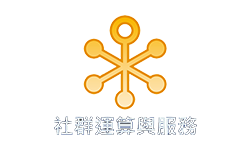
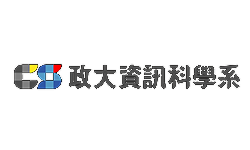
Update# update site @ 2013-09-23 16:48 GMT+8

Changed region(s): [[0.28, 0.08, 0.98, 0.7467], [0.196, 0.7733, 0.812, 0.9067], [0.056, 0.4267, 0.252, 0.6133]]

diff --git a/stylesheets/style.css b/stylesheets/style.css
@@ -1,1 +1,1 @@
-@import url("http://fonts.googleapis.com/css?family=Open+Sans");/*! normalize.css v2.1.3 | MIT License | git.io/normalize */article,aside,details,figcaption,figure,footer,header,hgroup,main,nav,section,summary{display:block}audio,canvas,video{display:inline-block}audio:not([controls]){display:none;height:0}[hidden],template{display:none}html{font-family:sans-serif;-ms-text-size-adjust:100%;-webkit-text-size-adjust:100%}body{margin:0}a{background:transparent}a:focus{outline:thin dotted}a:active,a:hover{outline:0}h1{font-size:2em;margin:0.67em 0}abbr[title]{border-bottom:1px dotted}b,strong{font-weight:bold}dfn{font-style:italic}hr{-moz-box-sizing:content-box;box-sizing:content-box;height:0}mark{background:#ff0;color:#000}code,kbd,pre,samp{font-family:monospace, serif;font-size:1em}pre{white-space:pre-wrap}q{quotes:"\201C" "\201D" "\2018" "\2019"}small{font-size:80%}sub,sup{font-size:75%;line-height:0;position:relative;vertical-align:baseline}sup{top:-0.5em}sub{bottom:-0.25em}img{border:0}svg:not(:root){overflow:hidden}figure{margin:0}fieldset{border:1px solid #c0c0c0;margin:0 2px;padding:0.35em 0.625em 0.75em}legend{border:0;padding:0}button,input,select,textarea{font-family:inherit;font-size:100%;margin:0}button,input{line-height:normal}button,select{text-transform:none}button,html input[type="button"],input[type="reset"],input[type="submit"]{-webkit-appearance:button;cursor:pointer}button[disabled],html input[disabled]{cursor:default}input[type="checkbox"],input[type="radio"]{box-sizing:border-box;padding:0}input[type="search"]{-webkit-appearance:textfield;-moz-box-sizing:content-box;-webkit-box-sizing:content-box;box-sizing:content-box}input[type="search"]::-webkit-search-cancel-button,input[type="search"]::-webkit-search-decoration{-webkit-appearance:none}button::-moz-focus-inner,input::-moz-focus-inner{border:0;padding:0}textarea{overflow:auto;vertical-align:top}table{border-collapse:collapse;border-spacing:0}* html{font-size:87.5%}html{font-size:14px;line-height:1.5em}body{background:#1a1a1a;color:#fff;font-family:"微軟正黑體","Microsoft JhengHei","STHeiti", "SimSun", "Helvetica Neue", "Helvetica", "Arial", sans-serif}hr{width:100%;border:none;border-top:1px solid #5a5a5a}.container{*zoom:1;max-width:19em;_width:19em;padding-left:1em;padding-right:1em;margin-left:auto;margin-right:auto}.container:after{content:"";display:table;clear:both}@media (min-width: 39.375em){.container{max-width:39em;padding-left:1em;padding-right:1em;margin-left:auto;margin-right:auto}.container:after{content:"";display:table;clear:both}}@media (min-width: 65.625em){.container{max-width:59em;padding-left:1em;padding-right:1em;margin-left:auto;margin-right:auto}.container:after{content:"";display:table;clear:both}}.page{height:0;overflow:hidden;filter:progid:DXImageTransform.Microsoft.Alpha(Opacity=0);opacity:0}.page.active{height:auto;filter:progid:DXImageTransform.Microsoft.Alpha(Opacity=100);opacity:1;-webkit-transition:0.5s ease-in;-moz-transition:0.5s ease-in;-o-transition:0.5s ease-in;transition:0.5s ease-in}.column-full{width:100%;float:left;margin-right:5.26316%;display:inline}@media (min-width: 39.375em){.column-full{width:100%;float:left;margin-right:2.5641%}}@media (min-width: 65.625em){.column-full{width:100%;float:left;margin-right:1.69492%}}.column-left{width:100%;float:left;margin-right:5.26316%;display:inline}@media (min-width: 39.375em){.column-left{width:48.71795%;float:left;margin-right:2.5641%}}@media (min-width: 65.625em){.column-left{width:49.15254%;float:left;margin-right:1.69492%}}.column-right{width:100%;float:left;margin-right:5.26316%;display:inline}@media (min-width: 39.375em){.column-right{width:48.71795%;float:right;margin-right:0}}@media (min-width: 65.625em){.column-right{width:49.15254%;float:right;margin-right:0}}.text-centered{text-align:center}.comming{text-align:center;font-family:"Open Sans", sans-serif}.comming h2{font-size:1.71429em;line-height:1.75em;font-weight:normal}.hide{display:none}.button{display:inline-block;border:2px solid #fff;color:#fff;padding:1em;margin-top:1.5em;padding-top:0.375em;padding-bottom:0.375em;margin-bottom:1.5em;text-decoration:none}.button:hover{border-color:#f4dc2e;background-color:#f4dc2e;color:#1a1a1a;-webkit-transition:0.5s ease-out;-moz-transition:0.5s ease-out;-o-transition:0.5s ease-out;transition:0.5s ease-out}.button.large{font-size:1.28571em;line-height:2.33333em}.media{position:relative;width:100%;padding-top:56.25%;overflow:hidden}.youtube iframe{position:absolute;top:0;left:0;width:100%;height:100%}#header{overflow:hidden;*zoom:1;width:100%;-webkit-transition:0.3s ease-in-out;-moz-transition:0.3s ease-in-out;-o-transition:0.3s ease-in-out;transition:0.3s ease-in-out}#header.home{margin-top:3.5em}@media (min-width: 65.625em){#header{position:absolute;z-index:100}#header.home{top:50%;margin-top:-3.5em;width:100%}}#logo a{display:block;width:244px;height:96px;margin:0 auto;background:url('../images/logo.png?1379858646') no-repeat;text-indent:-119988px;overflow:hidden;text-align:left}@media (min-width: 65.625em){#logo{float:right;width:35%}#logo a{margin:0;margin-left:1em}}#main-menu{width:100%;margin-top:3em;overflow:hidden;*zoom:1;background:#f4dc2e}#main-menu a{display:block;padding:1em;margin-top:0em;padding-top:0.75em;padding-bottom:0.75em;margin-bottom:0em;color:#000;text-decoration:none;font-family:"Open Sans", sans-serif}#main-menu ul{padding-left:0;margin-top:0em;padding-top:0em;padding-bottom:0em;margin-bottom:0em;font-size:1.28571em;line-height:2.33333em}#main-menu li{text-transform:uppercase;text-align:center;list-style:none}#main-menu li:hover{background:#faf0a7;-webkit-transition:0.5s ease-in;-moz-transition:0.5s ease-in;-o-transition:0.5s ease-in;transition:0.5s ease-in}@media (min-width: 65.625em){#main-menu{float:left;width:65%}#main-menu a{padding-left:0.5em;padding-right:0.5em}#main-menu ul{float:right;padding-right:1em}#main-menu ul.left{float:left}#main-menu li{float:left}}#site-menu{max-height:0;overflow:hidden;-webkit-transition:1s ease-in-out;-moz-transition:1s ease-in-out;-o-transition:1s ease-in-out;transition:1s ease-in-out}@media (min-width: 39.375em){#site-menu{max-height:999px;text-align:center}#site-menu li{display:inline-block}}#apply-now{position:relative;background:#fff}#apply-now:after{position:absolute;top:0;left:100%;display:block;width:0;height:0;content:" ";border:1.85em solid transparent;border-left:2em solid #fff}#apply-now:hover:after{border-left:2em solid #faf0a7;-webkit-transition:0.5s ease-in;-moz-transition:0.5s ease-in;-o-transition:0.5s ease-in;transition:0.5s ease-in}@media (min-width: 39.375em){#apply-now{float:clear}}#openmenu{position:absolute;top:-100%;left:-100%}#openmenu ~ label{display:block;font-family:"Open Sans";text-transform:uppercase;text-align:center;color:#1a1a1a;margin-top:1.5em;padding-top:0em;padding-bottom:0em;margin-bottom:1.5em}#openmenu:checked ~ label{font-weight:bold}#openmenu:checked ~ #site-menu{max-height:999px}@media (min-width: 39.375em){#openmenu{display:none}#openmenu ~ label{display:none}}@media (min-width: 65.625em){#openmenu{display:none}#openmenu ~ label{display:none}}#content{padding-top:3em;padding-bottom:4em}@media (min-width: 65.625em){#content{padding-top:10em}}#about p{font-size:1.28571em;line-height:1.75em}#about dd{margin:0}#about .time,#about .location{font-size:1.71429em;line-height:1.75em}#about h2{margin-top:0.375em;padding-top:0.375em;padding-bottom:0.375em;margin-bottom:0.375em;background:#f4dc2e;color:#1a1a1a;font-weight:normal;text-align:center}#host .hosts{max-height:150px;margin-top:0.75em;padding-top:0.375em;padding-bottom:0.375em;margin-bottom:0em;text-align:center;vertical-align:middle;width:100%;float:left;margin-right:5.26316%;display:inline;margin-right:-100%}#host .hosts:nth-child(1n+1){margin-left:0%;clear:left}@media (min-width: 39.375em){#host .hosts{width:48.71795%;float:left;margin-right:2.5641%;margin-right:-100%}#host .hosts:nth-child(2n+1){margin-left:0%;clear:left}#host .hosts:nth-child(2n+2){margin-left:51.28205%;clear:none}}@media (min-width: 65.625em){#host .hosts{width:32.20339%;float:left;margin-right:1.69492%;margin-right:-100%}#host .hosts:nth-child(3n+1){margin-left:0%;clear:left}#host .hosts:nth-child(3n+2){margin-left:33.89831%;clear:none}#host .hosts:nth-child(3n+3){margin-left:67.79661%;clear:none}}#host .align-base{display:inline-block;height:140px;width:1px;vertical-align:middle}#host img{max-width:100%;vertical-align:middle}#rules dt{display:block;margin-top:0.75em;padding-top:0.75em;padding-bottom:0.75em;margin-bottom:0.75em;background:#f4dc2e;color:#1a1a1a;text-align:center}#rules dd{margin:0;text-align:center}#rules .label{display:inline-block;padding-left:1em;margin-right:1em;margin-top:0.375em;padding-top:0em;padding-bottom:0em;margin-bottom:0.375em;border:1px solid #f4dc2e;background:#f4dc2e;color:#1a1a1a}#rules .score{display:inline-block;padding:0.5em;margin-left:0.5em;margin-top:0em;padding-top:0.225em;padding-bottom:0.225em;margin-bottom:0em;background:#1a1a1a;color:#fff;font-family:"Open Sans", sans-serif;font-weight:300}#schedule h2{margin-top:1.5em;padding-top:0.375em;padding-bottom:0.375em;margin-bottom:0.375em;background:#f4dc2e;color:#1a1a1a;text-align:center;font-weight:normal}#schedule ol{padding:0;margin:0}#schedule li{margin-bottom:0.75em;font-size:1.14286em;line-height:1.3125em;list-style:none}#schedule li:hover{background:#272727;-webkit-transition:1s ease-out;-moz-transition:1s ease-out;-o-transition:1s ease-out;transition:1s ease-out}#schedule li:hover .time{background:#f4dc2e;color:#1a1a1a;-webkit-transition:0.5s ease-out;-moz-transition:0.5s ease-out;-o-transition:0.5s ease-out;transition:0.5s ease-out}#schedule .location{overflow:hidden;*zoom:1}#schedule .time{position:relative;display:inline-block;padding:1em;margin-right:1em;margin-top:0em;padding-top:0.15em;padding-bottom:0.15em;margin-bottom:0em;border:1px solid #f4dc2e;font-size:1em;line-height:1.5em;font-family:"Open Sans", sans-serif;font-weight:lighter}#schedule .item{display:inline}@media (min-width: 39.375em){#schedule .column-left,#schedule .column-right{width:100%;float:left;margin-right:2.5641%}}@media (min-width: 65.625em){#schedule .column-left{width:49.15254%;float:left;margin-right:1.69492%}#schedule .column-right{width:49.15254%;float:right;margin-right:0}}#sponsor .sponsor{width:100%;float:left;margin-right:5.26316%;display:inline;margin-right:-100%}#sponsor .sponsor:nth-child(1n+1){margin-left:0%;clear:left}@media (min-width: 39.375em){#sponsor .sponsor{width:48.71795%;float:left;margin-right:2.5641%;margin-right:-100%}#sponsor .sponsor:nth-child(2n+1){margin-left:0%;clear:left}#sponsor .sponsor:nth-child(2n+2){margin-left:51.28205%;clear:none}}@media (min-width: 65.625em){#sponsor .sponsor{width:32.20339%;float:left;margin-right:1.69492%;margin-right:-100%}#sponsor .sponsor:nth-child(3n+1){margin-left:0%;clear:left}#sponsor .sponsor:nth-child(3n+2){margin-left:33.89831%;clear:none}#sponsor .sponsor:nth-child(3n+3){margin-left:67.79661%;clear:none}}#staff .staff{width:100%;float:left;margin-right:5.26316%;display:inline;margin-right:-100%}#staff .staff:nth-child(1n+1){margin-left:0%;clear:left}@media (min-width: 39.375em){#staff .staff{width:48.71795%;float:left;margin-right:2.5641%;margin-right:-100%}#staff .staff:nth-child(2n+1){margin-left:0%;clear:left}#staff .staff:nth-child(2n+2){margin-left:51.28205%;clear:none}}@media (min-width: 65.625em){#staff .staff{width:32.20339%;float:left;margin-right:1.69492%;margin-right:-100%}#staff .staff:nth-child(3n+1){margin-left:0%;clear:left}#staff .staff:nth-child(3n+2){margin-left:33.89831%;clear:none}#staff .staff:nth-child(3n+3){margin-left:67.79661%;clear:none}}#staff .staff .role{display:block;padding:1em;margin-top:0.75em;padding-top:0.75em;padding-bottom:0.75em;margin-bottom:0.75em;background:#f4dc2e;color:#1a1a1a}#staff .staff .departement{color:#404040;font-size:0.85714em;line-height:1.75em}#staff .staff .name{font-size:1.28571em;line-height:2.33333em}
+@import url("http://fonts.googleapis.com/css?family=Open+Sans");/*! normalize.css v2.1.3 | MIT License | git.io/normalize */article,aside,details,figcaption,figure,footer,header,hgroup,main,nav,section,summary{display:block}audio,canvas,video{display:inline-block}audio:not([controls]){display:none;height:0}[hidden],template{display:none}html{font-family:sans-serif;-ms-text-size-adjust:100%;-webkit-text-size-adjust:100%}body{margin:0}a{background:transparent}a:focus{outline:thin dotted}a:active,a:hover{outline:0}h1{font-size:2em;margin:0.67em 0}abbr[title]{border-bottom:1px dotted}b,strong{font-weight:bold}dfn{font-style:italic}hr{-moz-box-sizing:content-box;box-sizing:content-box;height:0}mark{background:#ff0;color:#000}code,kbd,pre,samp{font-family:monospace, serif;font-size:1em}pre{white-space:pre-wrap}q{quotes:"\201C" "\201D" "\2018" "\2019"}small{font-size:80%}sub,sup{font-size:75%;line-height:0;position:relative;vertical-align:baseline}sup{top:-0.5em}sub{bottom:-0.25em}img{border:0}svg:not(:root){overflow:hidden}figure{margin:0}fieldset{border:1px solid #c0c0c0;margin:0 2px;padding:0.35em 0.625em 0.75em}legend{border:0;padding:0}button,input,select,textarea{font-family:inherit;font-size:100%;margin:0}button,input{line-height:normal}button,select{text-transform:none}button,html input[type="button"],input[type="reset"],input[type="submit"]{-webkit-appearance:button;cursor:pointer}button[disabled],html input[disabled]{cursor:default}input[type="checkbox"],input[type="radio"]{box-sizing:border-box;padding:0}input[type="search"]{-webkit-appearance:textfield;-moz-box-sizing:content-box;-webkit-box-sizing:content-box;box-sizing:content-box}input[type="search"]::-webkit-search-cancel-button,input[type="search"]::-webkit-search-decoration{-webkit-appearance:none}button::-moz-focus-inner,input::-moz-focus-inner{border:0;padding:0}textarea{overflow:auto;vertical-align:top}table{border-collapse:collapse;border-spacing:0}* html{font-size:87.5%}html{font-size:14px;line-height:1.5em}body{background:#1a1a1a;color:#fff;font-family:"微軟正黑體","Microsoft JhengHei","STHeiti", "SimSun", "Helvetica Neue", "Helvetica", "Arial", sans-serif}hr{width:100%;border:none;border-top:1px solid #5a5a5a}.container{*zoom:1;max-width:19em;_width:19em;padding-left:1em;padding-right:1em;margin-left:auto;margin-right:auto}.container:after{content:"";display:table;clear:both}@media (min-width: 39.375em){.container{max-width:39em;padding-left:1em;padding-right:1em;margin-left:auto;margin-right:auto}.container:after{content:"";display:table;clear:both}}@media (min-width: 65.625em){.container{max-width:59em;padding-left:1em;padding-right:1em;margin-left:auto;margin-right:auto}.container:after{content:"";display:table;clear:both}}.page{height:0;overflow:hidden;filter:progid:DXImageTransform.Microsoft.Alpha(Opacity=0);opacity:0}.page.active{height:auto;filter:progid:DXImageTransform.Microsoft.Alpha(Opacity=100);opacity:1;-webkit-transition:0.5s ease-in;-moz-transition:0.5s ease-in;-o-transition:0.5s ease-in;transition:0.5s ease-in}.column-full{width:100%;float:left;margin-right:5.26316%;display:inline}@media (min-width: 39.375em){.column-full{width:100%;float:left;margin-right:2.5641%}}@media (min-width: 65.625em){.column-full{width:100%;float:left;margin-right:1.69492%}}.column-left{width:100%;float:left;margin-right:5.26316%;display:inline}@media (min-width: 39.375em){.column-left{width:48.71795%;float:left;margin-right:2.5641%}}@media (min-width: 65.625em){.column-left{width:49.15254%;float:left;margin-right:1.69492%}}.column-right{width:100%;float:left;margin-right:5.26316%;display:inline}@media (min-width: 39.375em){.column-right{width:48.71795%;float:right;margin-right:0}}@media (min-width: 65.625em){.column-right{width:49.15254%;float:right;margin-right:0}}.text-centered{text-align:center}.comming{text-align:center;font-family:"Open Sans", sans-serif}.comming h2{font-size:1.71429em;line-height:1.75em;font-weight:normal}.hide{display:none}.button{display:inline-block;border:2px solid #fff;color:#fff;padding:1em;margin-top:1.5em;padding-top:0.375em;padding-bottom:0.375em;margin-bottom:1.5em;text-decoration:none}.button:hover{border-color:#f4dc2e;background-color:#f4dc2e;color:#1a1a1a;-webkit-transition:0.5s ease-out;-moz-transition:0.5s ease-out;-o-transition:0.5s ease-out;transition:0.5s ease-out}.button.large{font-size:1.28571em;line-height:2.33333em}.media{position:relative;width:100%;padding-top:56.25%;overflow:hidden}.youtube iframe{position:absolute;top:0;left:0;width:100%;height:100%}#header{overflow:hidden;*zoom:1;width:100%;-webkit-transition:0.3s ease-in-out;-moz-transition:0.3s ease-in-out;-o-transition:0.3s ease-in-out;transition:0.3s ease-in-out}#header.home{margin-top:3.5em}@media (min-width: 65.625em){#header{position:absolute;z-index:100}#header.home{top:50%;margin-top:-3.5em;width:100%}}#logo a{display:block;width:244px;height:96px;margin:0 auto;background:url('../images/logo.png?1379899763') no-repeat;text-indent:-119988px;overflow:hidden;text-align:left}@media (min-width: 65.625em){#logo{float:right;width:35%}#logo a{margin:0;margin-left:1em}}#main-menu{width:100%;margin-top:3em;overflow:hidden;*zoom:1;background:#f4dc2e}#main-menu a{display:block;padding:1em;margin-top:0em;padding-top:0.75em;padding-bottom:0.75em;margin-bottom:0em;color:#000;text-decoration:none;font-family:"Open Sans", sans-serif}#main-menu ul{padding-left:0;margin-top:0em;padding-top:0em;padding-bottom:0em;margin-bottom:0em;font-size:1.28571em;line-height:2.33333em}#main-menu li{text-transform:uppercase;text-align:center;list-style:none}#main-menu li:hover{background:#faf0a7;-webkit-transition:0.5s ease-in;-moz-transition:0.5s ease-in;-o-transition:0.5s ease-in;transition:0.5s ease-in}@media (min-width: 65.625em){#main-menu{float:left;width:65%}#main-menu a{padding-left:0.5em;padding-right:0.5em}#main-menu ul{float:right;padding-right:1em}#main-menu ul.left{float:left}#main-menu li{float:left}}#site-menu{max-height:0;overflow:hidden;-webkit-transition:1s ease-in-out;-moz-transition:1s ease-in-out;-o-transition:1s ease-in-out;transition:1s ease-in-out}@media (min-width: 39.375em){#site-menu{max-height:999px;text-align:center}#site-menu li{display:inline-block}}#apply-now{position:relative;background:#fff}#apply-now:after{position:absolute;top:0;left:100%;display:block;width:0;height:0;content:" ";border:1.85em solid transparent;border-left:2em solid #fff}#apply-now:hover:after{border-left:2em solid #faf0a7;-webkit-transition:0.5s ease-in;-moz-transition:0.5s ease-in;-o-transition:0.5s ease-in;transition:0.5s ease-in}@media (min-width: 39.375em){#apply-now{float:clear}}#openmenu{position:absolute;top:-100%;left:-100%}#openmenu ~ label{display:block;font-family:"Open Sans";text-transform:uppercase;text-align:center;color:#1a1a1a;margin-top:1.5em;padding-top:0em;padding-bottom:0em;margin-bottom:1.5em}#openmenu:checked ~ label{font-weight:bold}#openmenu:checked ~ #site-menu{max-height:999px}@media (min-width: 39.375em){#openmenu{display:none}#openmenu ~ label{display:none}}@media (min-width: 65.625em){#openmenu{display:none}#openmenu ~ label{display:none}}#content{padding-top:3em;padding-bottom:4em}@media (min-width: 65.625em){#content{padding-top:10em}}#about p{font-size:1.28571em;line-height:1.75em}#about dd{margin:0}#about .time,#about .location{font-size:1.71429em;line-height:1.75em}#about h2{margin-top:0.375em;padding-top:0.375em;padding-bottom:0.375em;margin-bottom:0.375em;background:#f4dc2e;color:#1a1a1a;font-weight:normal;text-align:center}#host .hosts{max-height:150px;margin-top:0.75em;padding-top:0.375em;padding-bottom:0.375em;margin-bottom:0em;text-align:center;vertical-align:middle;width:100%;float:left;margin-right:5.26316%;display:inline;margin-right:-100%}#host .hosts:nth-child(1n+1){margin-left:0%;clear:left}@media (min-width: 39.375em){#host .hosts{width:48.71795%;float:left;margin-right:2.5641%;margin-right:-100%}#host .hosts:nth-child(2n+1){margin-left:0%;clear:left}#host .hosts:nth-child(2n+2){margin-left:51.28205%;clear:none}}@media (min-width: 65.625em){#host .hosts{width:32.20339%;float:left;margin-right:1.69492%;margin-right:-100%}#host .hosts:nth-child(3n+1){margin-left:0%;clear:left}#host .hosts:nth-child(3n+2){margin-left:33.89831%;clear:none}#host .hosts:nth-child(3n+3){margin-left:67.79661%;clear:none}}#host .align-base{display:inline-block;height:140px;width:1px;vertical-align:middle}#host img{max-width:100%;vertical-align:middle}#rules dt{display:block;margin-top:0.75em;padding-top:0.75em;padding-bottom:0.75em;margin-bottom:0.75em;background:#f4dc2e;color:#1a1a1a;text-align:center}#rules dd{margin:0;text-align:center}#rules .label{display:inline-block;padding-left:1em;margin-right:1em;margin-top:0.375em;padding-top:0em;padding-bottom:0em;margin-bottom:0.375em;border:1px solid #f4dc2e;background:#f4dc2e;color:#1a1a1a}#rules .score{display:inline-block;padding:0.5em;margin-left:0.5em;margin-top:0em;padding-top:0.225em;padding-bottom:0.225em;margin-bottom:0em;background:#1a1a1a;color:#fff;font-family:"Open Sans", sans-serif;font-weight:300}#schedule h2{margin-top:1.5em;padding-top:0.375em;padding-bottom:0.375em;margin-bottom:0.375em;background:#f4dc2e;color:#1a1a1a;text-align:center;font-weight:normal}#schedule ol{padding:0;margin:0}#schedule li{margin-bottom:0.75em;font-size:1.14286em;line-height:1.3125em;list-style:none}#schedule li:hover{background:#272727;-webkit-transition:1s ease-out;-moz-transition:1s ease-out;-o-transition:1s ease-out;transition:1s ease-out}#schedule li:hover .time{background:#f4dc2e;color:#1a1a1a;-webkit-transition:0.5s ease-out;-moz-transition:0.5s ease-out;-o-transition:0.5s ease-out;transition:0.5s ease-out}#schedule .location{overflow:hidden;*zoom:1}#schedule .time{position:relative;display:inline-block;padding:1em;margin-right:1em;margin-top:0em;padding-top:0.15em;padding-bottom:0.15em;margin-bottom:0em;border:1px solid #f4dc2e;font-size:1em;line-height:1.5em;font-family:"Open Sans", sans-serif;font-weight:lighter}#schedule .item{display:inline}@media (min-width: 39.375em){#schedule .column-left,#schedule .column-right{width:100%;float:left;margin-right:2.5641%}}@media (min-width: 65.625em){#schedule .column-left{width:49.15254%;float:left;margin-right:1.69492%}#schedule .column-right{width:49.15254%;float:right;margin-right:0}}#sponsor .sponsor{width:100%;float:left;margin-right:5.26316%;display:inline;margin-right:-100%}#sponsor .sponsor:nth-child(1n+1){margin-left:0%;clear:left}@media (min-width: 39.375em){#sponsor .sponsor{width:48.71795%;float:left;margin-right:2.5641%;margin-right:-100%}#sponsor .sponsor:nth-child(2n+1){margin-left:0%;clear:left}#sponsor .sponsor:nth-child(2n+2){margin-left:51.28205%;clear:none}}@media (min-width: 65.625em){#sponsor .sponsor{width:32.20339%;float:left;margin-right:1.69492%;margin-right:-100%}#sponsor .sponsor:nth-child(3n+1){margin-left:0%;clear:left}#sponsor .sponsor:nth-child(3n+2){margin-left:33.89831%;clear:none}#sponsor .sponsor:nth-child(3n+3){margin-left:67.79661%;clear:none}}#staff .staff{width:100%;float:left;margin-right:5.26316%;display:inline;margin-right:-100%}#staff .staff:nth-child(1n+1){margin-left:0%;clear:left}@media (min-width: 39.375em){#staff .staff{width:48.71795%;float:left;margin-right:2.5641%;margin-right:-100%}#staff .staff:nth-child(2n+1){margin-left:0%;clear:left}#staff .staff:nth-child(2n+2){margin-left:51.28205%;clear:none}}@media (min-width: 65.625em){#staff .staff{width:32.20339%;float:left;margin-right:1.69492%;margin-right:-100%}#staff .staff:nth-child(3n+1){margin-left:0%;clear:left}#staff .staff:nth-child(3n+2){margin-left:33.89831%;clear:none}#staff .staff:nth-child(3n+3){margin-left:67.79661%;clear:none}}#staff .staff .role{display:block;padding:1em;margin-top:0.75em;padding-top:0.75em;padding-bottom:0.75em;margin-bottom:0.75em;background:#f4dc2e;color:#1a1a1a}#staff .staff .departement{color:#404040;font-size:0.85714em;line-height:1.75em}#staff .staff .name{font-size:1.28571em;line-height:2.33333em}

diff --git a/index.html b/index.html
@@ -101,15 +101,15 @@
     </div>
   
     <div class="hosts">
-      <h3 class="hide">政治大學 社群網路運算與服務</h3>
+      <h3 class="hide">政治大學</h3>
       <span class="align-base"></span>
-      <a href="http://www.cs.nccu.edu.tw/" target="_blank" title="政治大學 社群網路運算與服務"><img alt="政治大學 社群網路運算與服務" src="/images/hosts/cs.nccu.png" /></a>
+      <a href="http://www.cs.nccu.edu.tw/" target="_blank" title="政治大學"><img alt="政治大學" src="/images/hosts/cs.nccu.png" /></a>
     </div>
   
     <div class="hosts">
-      <h3 class="hide">教育部軟體人才培育計劃</h3>
+      <h3 class="hide">教育部軟體人才培育計劃 & 社群網路運算與服務</h3>
       <span class="align-base"></span>
-      <a href="http://www.itsa.org.tw/" target="_blank" title="教育部軟體人才培育計劃"><img alt="教育部軟體人才培育計劃" src="/images/hosts/itsa.png" /></a>
+      <a href="http://www.itsa.org.tw/" target="_blank" title="教育部軟體人才培育計劃 & 社群網路運算與服務"><img alt="教育部軟體人才培育計劃 & 社群網路運算與服務" src="/images/hosts/itsa.png" /></a>
     </div>
   
     <div class="hosts">
